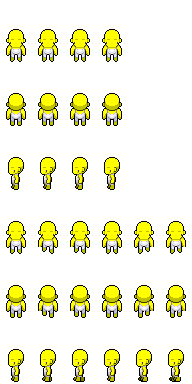
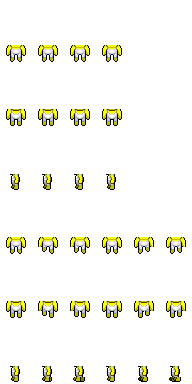
Characters: separate head layer drawn above clothing
Tops/outerwear were drawn over the bottom of the head, hiding the chin and
making the head look sunk into the torso. The base body is now split into
body + head layers; head (and face) render after top/outerwear so the head
overlaps the shoulders like the reference.

Claude-Session: https://claude.ai/code/session_01AuTfW4RY5hqwpF1mFtvoZZ

diff --git a/scripts/gen-placeholders.ts b/scripts/gen-placeholders.ts
@@ -78,23 +78,26 @@ const hexAt = (c: Canvas, x: number, y: number) => {
 };
 
 /** Split the reference into BODY (skin → key ramp) and FACE (eyes, blush) per direction. */
-function loadBase(): Record<SheetDir, { body: Canvas; face: Canvas }> {
+function loadBase(): Record<SheetDir, { body: Canvas; head: Canvas; face: Canvas }> {
   const strip = Canvas.load(path.join(ROOT, "art/characters/reference/base_body.png"));
-  const out = {} as Record<SheetDir, { body: Canvas; face: Canvas }>;
+  const out = {} as Record<SheetDir, { body: Canvas; head: Canvas; face: Canvas }>;
   (["down", "up", "left"] as SheetDir[]).forEach((dir, i) => {
     const body = new Canvas(FRAME_W, FRAME_H);
+    const head = new Canvas(FRAME_W, FRAME_H);
     const face = new Canvas(FRAME_W, FRAME_H);
     for (let y = 0; y < FRAME_H; y++)
       for (let x = 0; x < FRAME_W; x++) {
         const h = hexAt(strip, i * FRAME_W + x, y);
         if (!h) continue;
         const skin = REF_SKIN.indexOf(h);
-        if (y <= HEAD_BOTTOM[dir] && FACE_COLORS.has(h)) {
+        const isHead = y <= HEAD_BOTTOM[dir];
+        const target = isHead ? head : body;
+        if (isHead && FACE_COLORS.has(h)) {
           face.set(x, y, h);
-          body.set(x, y, KEY_RAMPS.skin[3]);
-        } else body.set(x, y, skin >= 0 ? KEY_RAMPS.skin[skin]! : h);
+          head.set(x, y, KEY_RAMPS.skin[3]);
+        } else target.set(x, y, skin >= 0 ? KEY_RAMPS.skin[skin]! : h);
       }
-    out[dir] = { body, face };
+    out[dir] = { body, head, face };
   });
   return out;
 }
@@ -135,7 +138,7 @@ const BASE = loadBase();
 
 /** Head silhouette (from the reference body) for a pose, shifted with the head bob. */
 function headMask(p: Pose): Uint8Array {
-  const src = BASE[p.dir].body;
+  const src = BASE[p.dir].head;
   const m = new Uint8Array(FRAME_W * FRAME_H);
   for (let y = 0; y <= HEAD_BOTTOM[p.dir]; y++)
     for (let x = 0; x < FRAME_W; x++) {
@@ -166,6 +169,7 @@ const drawers: Record<string, Drawer> = {
       }
   },
   "body/body_01.png": (f) => animate(BASE[f.dir].body, f.p, f.c),
+  "body/head_01.png": (f) => animate(BASE[f.dir].head, f.p, f.c),
   "face/face_01.png": (f) => animate(BASE[f.dir].face, f.p, f.c),
 
   // ── hair ──

diff --git a/shared/src/avatar.ts b/shared/src/avatar.ts
@@ -8,11 +8,12 @@ export const LAYERS = [
   "back_accessory",
   "hair_back",
   "body",
-  "face",
   "bottom",
   "shoes",
   "top",
   "outerwear",
+  "head", // drawn over clothing so the head overlaps the shoulders
+  "face",
   "hair_front",
   "headwear",
   "face_accessory",
@@ -38,6 +39,7 @@ export const LAYER_ORDER: Record<SheetDir, Layer[]> = {
     "shoes",
     "top",
     "outerwear",
+    "head",
     "hair_front",
     "hair_back",
     "back_accessory",

diff --git a/docs/spec.md b/docs/spec.md
@@ -34,8 +34,8 @@ Frame update order: input → logic → render → debug → HUD (4 Hz).
 - Motion model (`scripts/lib/pose.ts`): head and upper body never move (a bobbing head reads as sinking into the torso at this size). Idle is static; walk animates legs only — lift 2/1 px alternately (front/back) or stride ±1/2 px (side).
 
 ### Layers (back → front, facing down/left)
-`shadow, back_accessory, hair_back, body, face, bottom, shoes, top, outerwear, hair_front, headwear, face_accessory, hand_item`
-Facing up: face goes behind the body; hair_back and back_accessory move in front. See `LAYER_ORDER`.
+`shadow, back_accessory, hair_back, body, bottom, shoes, top, outerwear, head, face, hair_front, headwear, face_accessory, hand_item`
+The head is its own layer, drawn **over clothing** so it overlaps the shoulders (clothing must never cover the chin). Facing up: hair_back and back_accessory move in front. See `LAYER_ORDER`.
 
 ### Slots → items
 `body, face, hair, top, outerwear*, bottom, shoes, headwear*, face_accessory*, back_accessory*` (* optional).

diff --git a/CLAUDE.md b/CLAUDE.md
@@ -37,6 +37,7 @@ Full spec: `docs/spec.md`. Read it before changing anything in `shared/src/spec.
 - Base body = `art/characters/reference/base_body.png` (down / up / left, 96×64). Idle and walk frames are derived from it by the shared motion model in `scripts/lib/pose.ts`. **All clothing drawers use `pose()` so they move with the body.**
 - Items: `art/characters/items.json` (source) → copied to `client/public/assets/characters/items.json`. An item = slot + parts (layer + sheet) + channels (+ optional `unlock`).
 - Layer draw order per direction: `LAYER_ORDER` in `shared/src/avatar.ts` (facing up, back layers move in front).
+- The base body is split into `body` (torso/limbs) and `head` layers; `head` is drawn above top/outerwear so clothing never covers the chin.
 - Compositor bakes each avatar once into a single texture (`client/src/game/avatar/compositor.ts`), cached by appearance.
 
 ## Workflow
